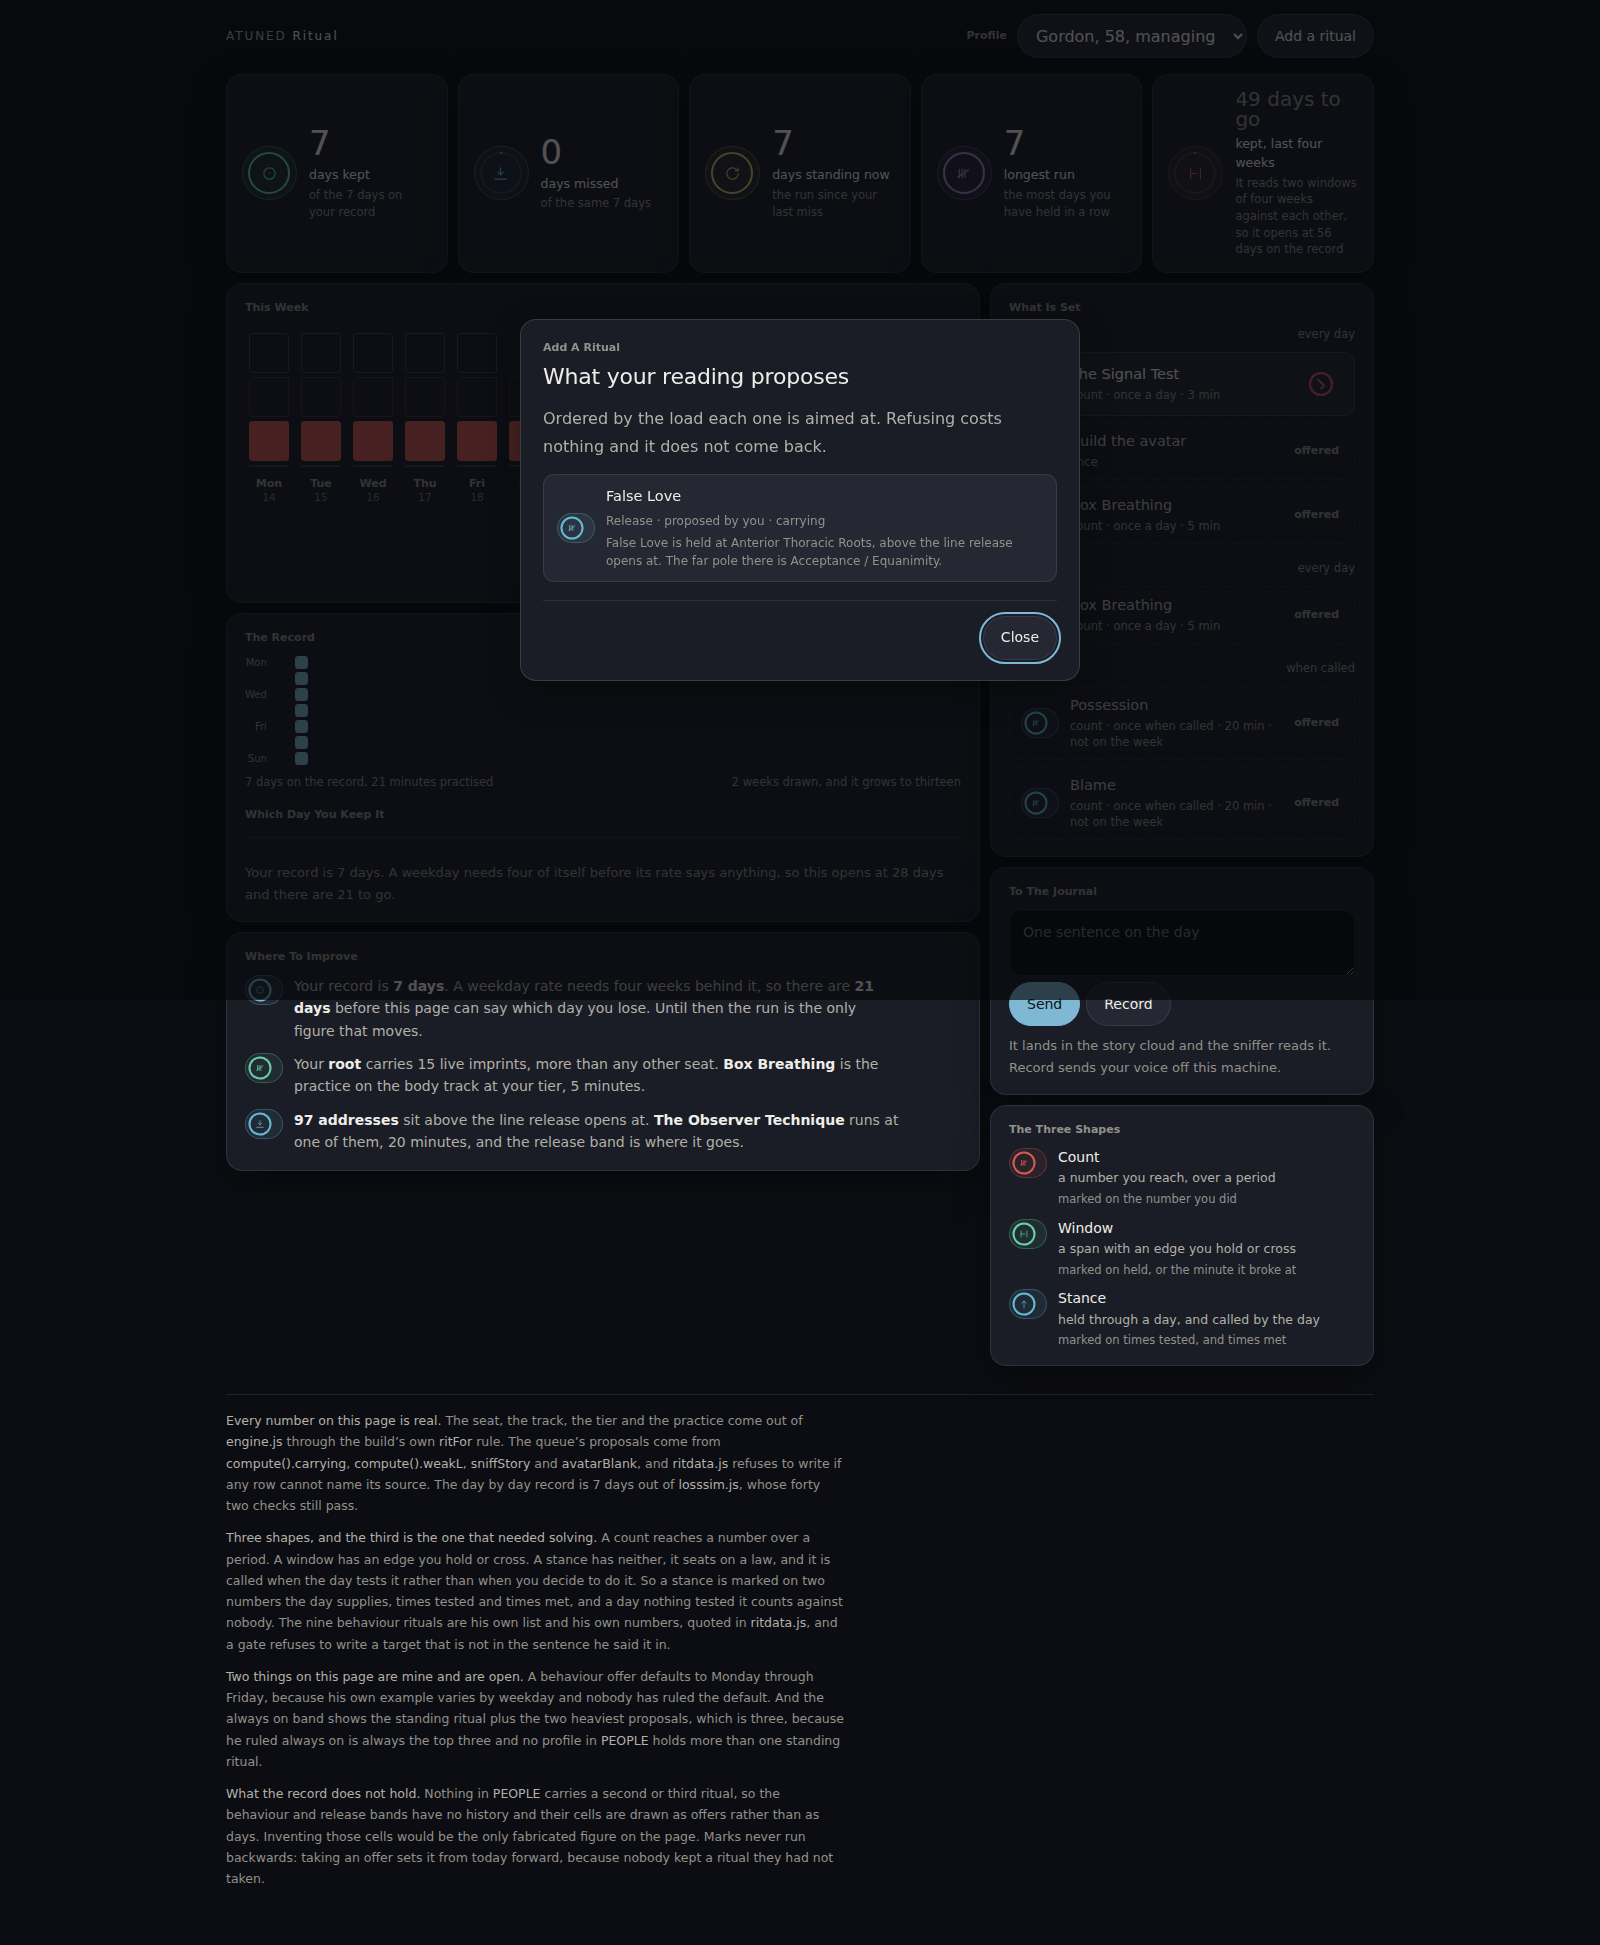
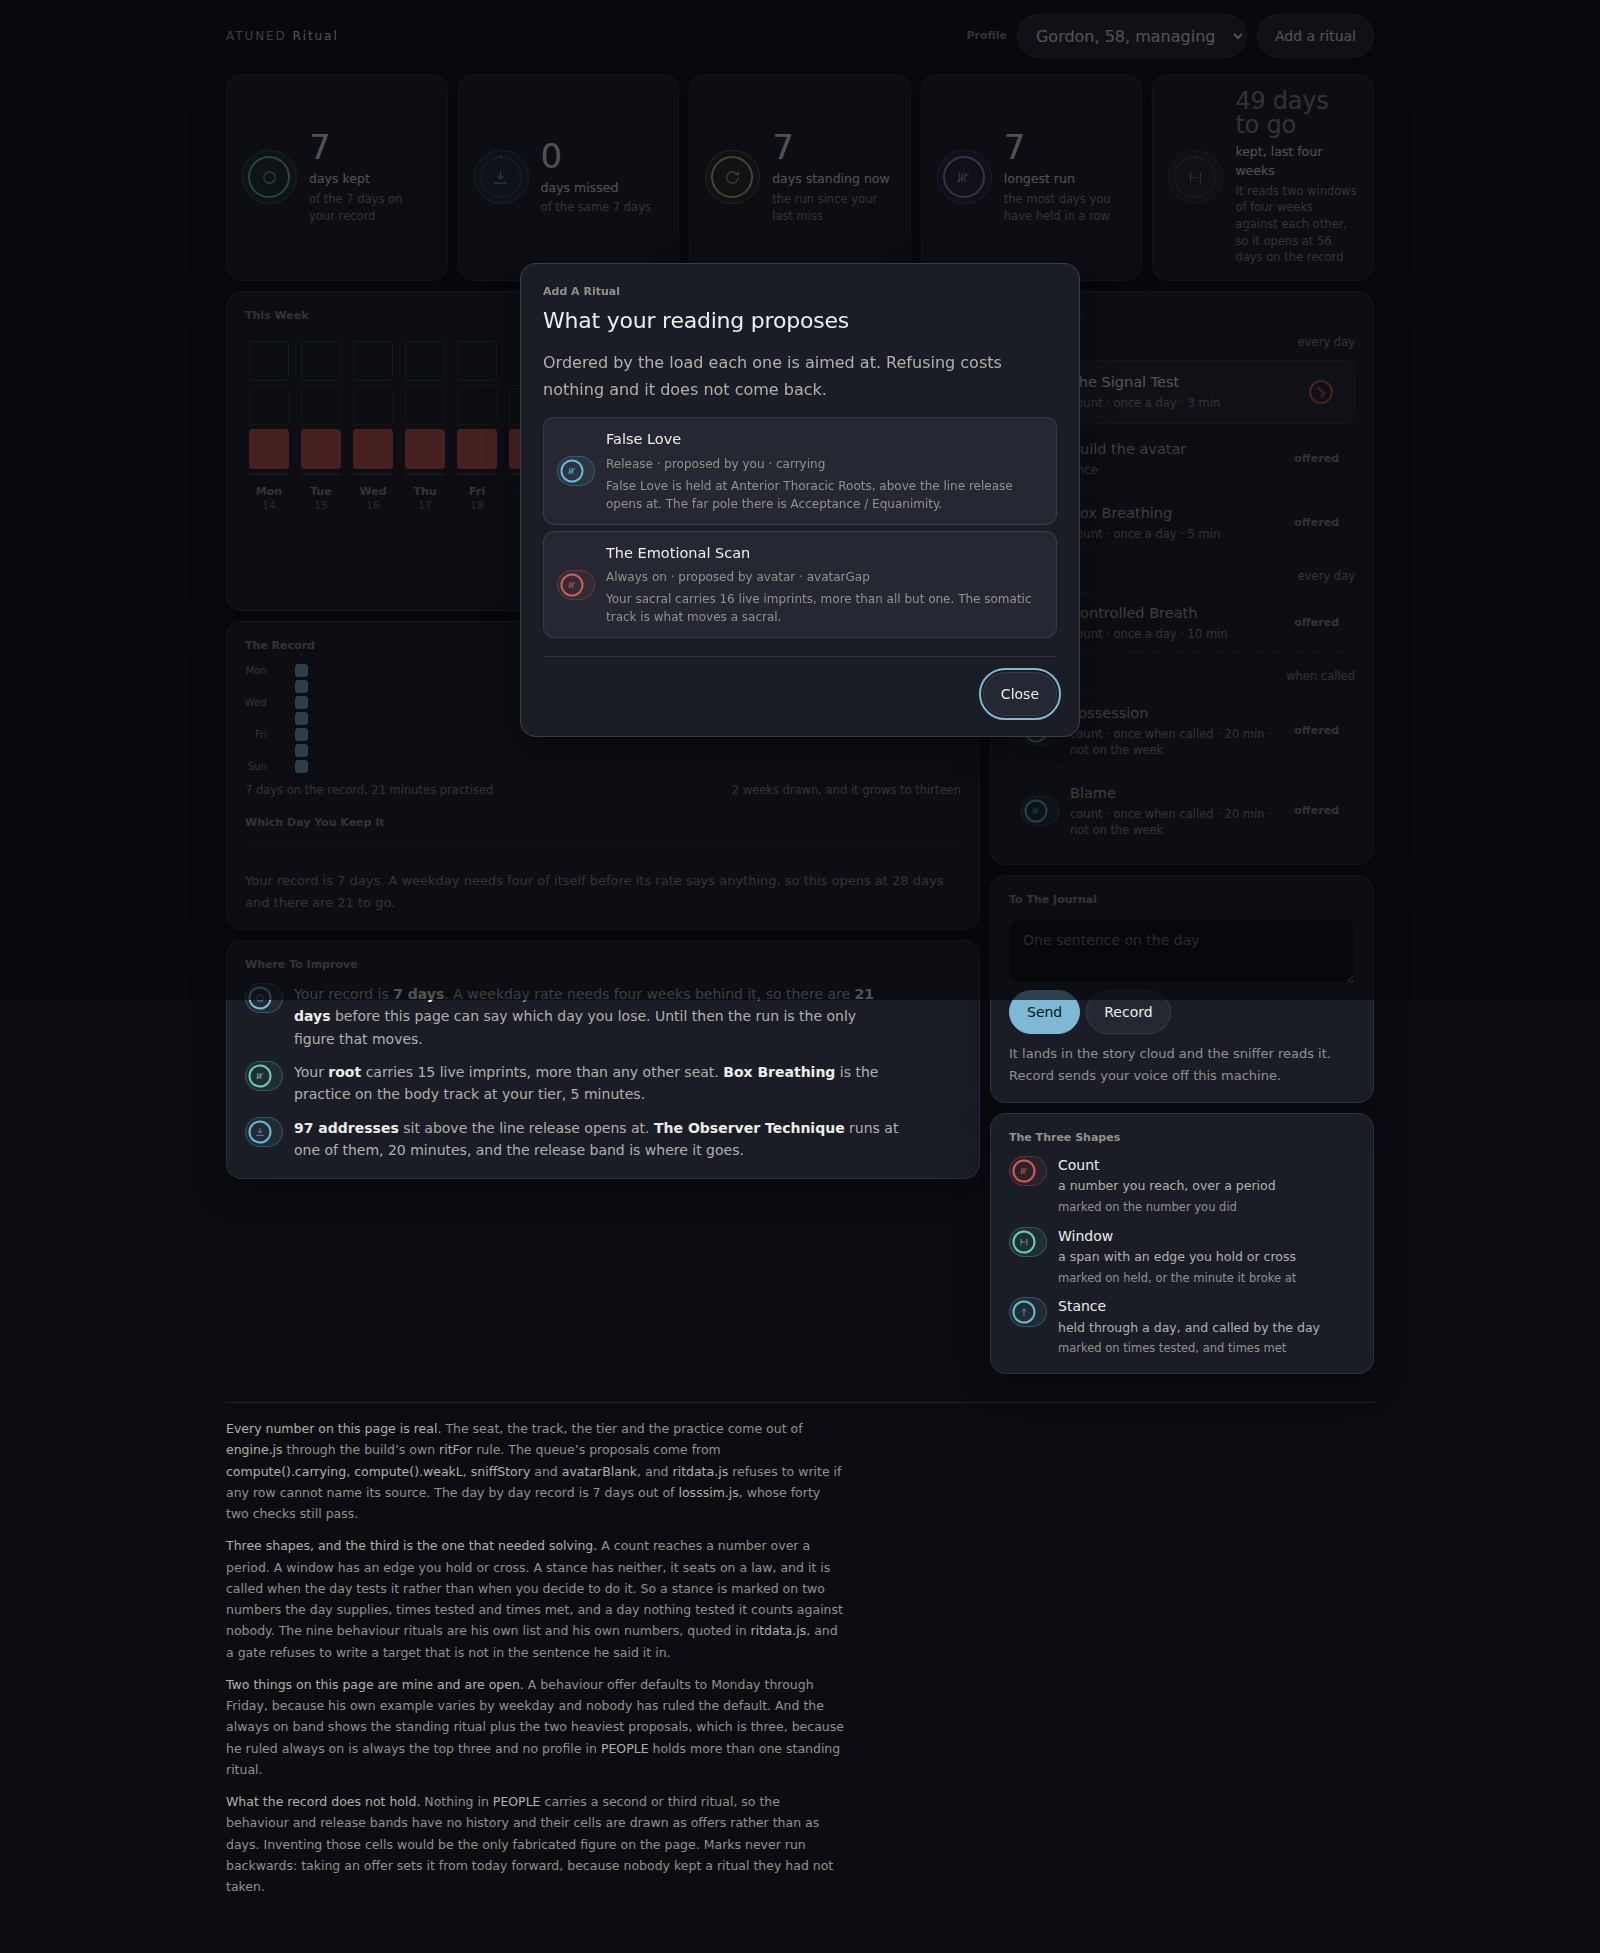
The build at f93847c, all five gates green
1168 engine, 758 functional, 100 collide, 109 design, every surface rendering.

Claude-Session: https://claude.ai/code/session_016LLF9NZj8M8zDK26vbWgWq

diff --git a/proto/ritual/ritual.html b/proto/ritual/ritual.html
@@ -186,7 +186,7 @@ textarea:focus-visible,[tabindex]:focus-visible{outline:2px solid var(--gold);
 .fig-n{font-family:var(--num);font-size:34px;font-weight:400;line-height:1;
  letter-spacing:-.02em;font-variant-numeric:tabular-nums;color:var(--ink);
  display:block}
-.fig-n.wait{font-size:20px;color:var(--dim);letter-spacing:0}
+.fig-n.wait{font-size:24px;color:var(--dim);letter-spacing:-.01em}
 .fig-k{font-size:12.5px;color:var(--ink);display:block;margin-top:6px;
  font-weight:500}
 .fig-o{font-size:11.5px;color:var(--dim);display:block;margin-top:2px;
@@ -296,7 +296,10 @@ textarea:focus-visible,[tabindex]:focus-visible{outline:2px solid var(--gold);
 .hm i.on{background:var(--c);border-color:var(--c)}
 .hm i.fl{background:transparent;border-color:var(--edge-2)}
 .hm i.no{background:transparent;border-color:transparent}
+.hm.run{grid-auto-flow:row;grid-template-rows:none;
+ grid-template-columns:repeat(auto-fill,var(--cell));gap:4px}
 .hmrow{display:flex;gap:12px;align-items:flex-start}
+.hmax[hidden]{display:none}
 .hmax{display:grid;grid-template-rows:repeat(7,var(--cell));gap:3px;
  font-size:10px;color:var(--dim);line-height:var(--cell);text-align:right;
  flex:0 0 auto}
@@ -1360,8 +1363,8 @@ window.RITDATA={
      "by": "you",
      "src": "weakL",
      "weight": 500,
-     "nm": "Box Breathing",
-     "min": 5,
+     "nm": "Controlled Breath",
+     "min": 10,
      "track": "Body",
      "seat": "Throat",
      "law": "Transparency",
@@ -1458,8 +1461,8 @@ window.RITDATA={
      "by": "avatar",
      "src": "avatarGap",
      "weight": 101.65,
-     "nm": "The Signal Test",
-     "min": 3,
+     "nm": "The Emotional Scan",
+     "min": 20,
      "track": "Somatic",
      "seat": "Sacral",
      "unit": "a day",
@@ -1951,8 +1954,8 @@ window.RITDATA={
      "by": "you",
      "src": "weakL",
      "weight": 500,
-     "nm": "The Signal Test",
-     "min": 3,
+     "nm": "Feel the Resistance",
+     "min": 10,
      "track": "Somatic",
      "seat": "Sacral",
      "law": "Temperance",
@@ -2032,8 +2035,8 @@ window.RITDATA={
      "by": "avatar",
      "src": "avatarGap",
      "weight": 58.32,
-     "nm": "The Somatic Truth Check",
-     "min": 2,
+     "nm": "The Signal Test",
+     "min": 3,
      "track": "Somatic",
      "seat": "Solar",
      "unit": "a day",
@@ -2572,8 +2575,8 @@ window.RITDATA={
      "by": "avatar",
      "src": "avatarGap",
      "weight": 12.72,
-     "nm": "Box Breathing",
-     "min": 5,
+     "nm": "Controlled Breath",
+     "min": 10,
      "track": "Body",
      "seat": "Root",
      "unit": "a day",
@@ -3067,8 +3070,8 @@ window.RITDATA={
      "by": "you",
      "src": "weakL",
      "weight": 500,
-     "nm": "The Somatic Truth Check",
-     "min": 2,
+     "nm": "The Signal Test",
+     "min": 3,
      "track": "Somatic",
      "seat": "Sacral",
      "law": "Detachment",
@@ -3102,8 +3105,8 @@ window.RITDATA={
      "by": "avatar",
      "src": "avatarGap",
      "weight": 8.13,
-     "nm": "Active Listening",
-     "min": 10,
+     "nm": "Noting Meditation",
+     "min": 15,
      "track": "Mind",
      "seat": "Throat",
      "unit": "a day",
@@ -3514,9 +3517,9 @@ window.RITDATA={
      "by": "you",
      "src": "weakL",
      "weight": 500,
-     "nm": "The Emotional Scan",
-     "min": 20,
-     "track": "Somatic",
+     "nm": "Controlled Breath",
+     "min": 10,
+     "track": "Body",
      "seat": "Sacral",
      "law": "Temperance",
      "unit": "a day",
@@ -3595,8 +3598,8 @@ window.RITDATA={
      "by": "avatar",
      "src": "avatarGap",
      "weight": 60.34,
-     "nm": "The Signal Test",
-     "min": 3,
+     "nm": "The Emotional Scan",
+     "min": 20,
      "track": "Somatic",
      "seat": "Solar",
      "unit": "a day",
@@ -3612,9 +3615,9 @@ window.RITDATA={
      "by": "avatar",
      "src": "avatarGap",
      "weight": 49.36,
-     "nm": "The Signal Test",
-     "min": 3,
-     "track": "Somatic",
+     "nm": "Box Breathing",
+     "min": 5,
+     "track": "Body",
      "seat": "Crown",
      "unit": "a day",
      "shape": "count",
@@ -4393,8 +4396,8 @@ window.RITDATA={
      "by": "you",
      "src": "weakL",
      "weight": 500,
-     "nm": "Box Breathing",
-     "min": 5,
+     "nm": "Controlled Breath",
+     "min": 10,
      "track": "Body",
      "seat": "Heart",
      "law": "Compassion",
@@ -4489,8 +4492,8 @@ window.RITDATA={
      "by": "avatar",
      "src": "avatarGap",
      "weight": 58.9,
-     "nm": "The Signal Test",
-     "min": 3,
+     "nm": "The Emotional Scan",
+     "min": 20,
      "track": "Somatic",
      "seat": "Sacral",
      "unit": "a day",
@@ -5035,7 +5038,8 @@ function cellsFor(dayIx){
 
 function drawWeek(){
  document.getElementById('keys').innerHTML=DATA.kinds.map(function(K){
-  var n=M.items.filter(function(it){return it.kind===K.k;}).length;
+  var n=M.items.filter(function(it){
+   return it.kind===K.k&&!it.once&&!it.whenCalled;}).length;
   return '<span class="key" style="--c:'+DATA.pal[K.band]+'">'
    +'<i></i><b>'+esc(K.nm)+'</b> <em>'+n+'</em></span>';}).join('');
 
@@ -5170,8 +5174,9 @@ function drawBands(){
     +'<div class="card-b"><div class="card-n">'+esc(it.nm)+'</div>'
     +'<div class="card-p">'+esc(paramLine(it))
     +(it.whenCalled?' · not on the week':'')+'</div></div>'
-    +(it.standing?markRing(it)
-      :'<span class="offertag">offered</span>')+'</div>';});
+    +(it.once?'<span class="offertag">'+(it.standing?'taken':'offered')+'</span>'
+      :(it.standing?markRing(it)
+        :'<span class="offertag">offered</span>'))+'</div>';});
   h+='</div></div>';});
  document.getElementById('bands').innerHTML=h;}
 

diff --git a/proto/ritual/ritdata.js b/proto/ritual/ritdata.js
@@ -312,6 +312,12 @@ const STANCE4LAW={}; LIB.filter(x=>x.shape==='stance').forEach(x=>{STANCE4LAW[x.
 
 function queueFor(o){
  const q=[];
+ /* everything already proposed, so no practice is offered under two kinds.
+    forSeat takes this set and takes the next one in the same ordering, which
+    is not a new rule: it is the next element of the rule already applied. */
+ const used={};
+ if(o.called)used[o.called.k]=1;
+ const take=p=>{if(p)used[p.k]=1; return p;};
 
  if(!o.avatarBuilt)
   q.push({kind:'hold', by:'avatar', src:'avatarBlank', weight:1e6,
@@ -320,7 +326,7 @@ function queueFor(o){
     +'and nothing to hold a daily ritual to.'});
 
  o.seats.slice(0,2).forEach((s,i)=>{
-  const p=forSeat(s.b,o.tier); if(!p)return;
+  const p=take(forSeat(s.b,o.tier,used)); if(!p)return;
   q.push({kind:'hold', by:'avatar', src:'avatarGap', weight:s.load,
    nm:p.nm, min:p.min, track:p.track, seat:s.b, unit:'a day',
    shape:'count', target:1, cunit:'a day', period:'a day',
@@ -329,7 +335,7 @@ function queueFor(o){
     +' track is what moves a '+s.b.toLowerCase()+'.'});});
 
  if(o.weakL){
-  const p=forSeat(o.weakL.b,o.tier,o.called?{[o.called.k]:1}:{});
+  const p=take(forSeat(o.weakL.b,o.tier,used));
   if(p)q.push({kind:'change', by:'you', src:'weakL', weight:500,
    nm:p.nm, min:p.min, track:p.track, seat:o.weakL.b, law:o.weakL.nm,
    unit:'a day', shape:'count', target:1, cunit:'a day', period:'a day',
@@ -537,6 +543,21 @@ console.error('        '+LIB.filter(x=>x.shape==='stance')
    20 September 2026 is a Sunday. A week that starts on Monday puts it in the
    last cell. Off by one here would print a person's Saturday under Sunday and
    nothing on the page would look wrong. */
+/* GATE 9. NO PRACTICE IS PROPOSED UNDER TWO KINDS.
+   It was, on Gordon: his root seat and his weakest law both land on the body
+   track at tier 1, so Box Breathing stood in the always on band and the
+   behaviour band at once. Invisible in the data and obvious in the shot. */
+console.error('GATE 9  no ritual is proposed under two kinds');
+Object.values(out.profiles).forEach(o=>{
+ const seen={};
+ if(o.called)seen[o.called.nm]='the standing ritual';
+ o.queue.forEach(q=>{
+  if(seen[q.nm])fail(o.nm+' is offered '+q.nm+' as '+q.kind+' and it is already '
+   +seen[q.nm]);
+  seen[q.nm]=q.kind;});});
+console.error('        eight profiles, '
+ +Object.values(out.profiles).reduce((a,o)=>a+o.queue.length,0)+' rows, each name once');
+
 console.error('GATE 8  the week starts on Monday and today lands on Sunday');
 if(new Date(TODAY).getUTCDay()!==0)
  fail('TODAY is not a Sunday, so the Monday first week is laid out wrong');

diff --git a/source.html b/source.html
@@ -5,7 +5,7 @@
      still covers the app and still takes pointer events. So the stamp on the
      card is gone the moment the app is usable, which is exactly when somebody
      asks which build they are looking at. The root element never goes. -->
-<html lang="en" data-build="4bf9c80 2026-09-20 19:13"><head><meta charset="utf-8">
+<html lang="en" data-build="f93847c 2026-09-20 19:16"><head><meta charset="utf-8">
 <meta name="viewport" content="width=device-width,initial-scale=1,viewport-fit=cover">
 <title>SOURCE · your field</title>
 <meta name="description" content="A field instrument. 112 addresses, nine poled axes, twenty-one laws.">
@@ -3911,7 +3911,7 @@ body.punch .ac-gf{border-top-color:transparent;background:var(--panel)}
        download as atuned(1).html and leaves the first one where it was, so
        opening "the file" can mean opening last week's.
        Stamped by BUILD.sh, so it cannot be wrong or go stale. -->
-  <span class="bs-v" id="bstamp">4bf9c80 2026-09-20 19:13</span></div>
+  <span class="bs-v" id="bstamp">f93847c 2026-09-20 19:16</span></div>
  <!-- THE WAY OUT WAS BUILT AND NEVER SHOWN.
 
       pointerdown and keydown both clear this sheet and have since it was

diff --git a/proto/ritual/_rit.css b/proto/ritual/_rit.css
@@ -185,7 +185,7 @@ textarea:focus-visible,[tabindex]:focus-visible{outline:2px solid var(--gold);
 .fig-n{font-family:var(--num);font-size:34px;font-weight:400;line-height:1;
  letter-spacing:-.02em;font-variant-numeric:tabular-nums;color:var(--ink);
  display:block}
-.fig-n.wait{font-size:20px;color:var(--dim);letter-spacing:0}
+.fig-n.wait{font-size:24px;color:var(--dim);letter-spacing:-.01em}
 .fig-k{font-size:12.5px;color:var(--ink);display:block;margin-top:6px;
  font-weight:500}
 .fig-o{font-size:11.5px;color:var(--dim);display:block;margin-top:2px;
@@ -295,7 +295,10 @@ textarea:focus-visible,[tabindex]:focus-visible{outline:2px solid var(--gold);
 .hm i.on{background:var(--c);border-color:var(--c)}
 .hm i.fl{background:transparent;border-color:var(--edge-2)}
 .hm i.no{background:transparent;border-color:transparent}
+.hm.run{grid-auto-flow:row;grid-template-rows:none;
+ grid-template-columns:repeat(auto-fill,var(--cell));gap:4px}
 .hmrow{display:flex;gap:12px;align-items:flex-start}
+.hmax[hidden]{display:none}
 .hmax{display:grid;grid-template-rows:repeat(7,var(--cell));gap:3px;
  font-size:10px;color:var(--dim);line-height:var(--cell);text-align:right;
  flex:0 0 auto}

diff --git a/proto/ritual/_RIT.html b/proto/ritual/_RIT.html
@@ -313,7 +313,8 @@ function cellsFor(dayIx){
 
 function drawWeek(){
  document.getElementById('keys').innerHTML=DATA.kinds.map(function(K){
-  var n=M.items.filter(function(it){return it.kind===K.k;}).length;
+  var n=M.items.filter(function(it){
+   return it.kind===K.k&&!it.once&&!it.whenCalled;}).length;
   return '<span class="key" style="--c:'+DATA.pal[K.band]+'">'
    +'<i></i><b>'+esc(K.nm)+'</b> <em>'+n+'</em></span>';}).join('');
 
@@ -448,8 +449,9 @@ function drawBands(){
     +'<div class="card-b"><div class="card-n">'+esc(it.nm)+'</div>'
     +'<div class="card-p">'+esc(paramLine(it))
     +(it.whenCalled?' · not on the week':'')+'</div></div>'
-    +(it.standing?markRing(it)
-      :'<span class="offertag">offered</span>')+'</div>';});
+    +(it.once?'<span class="offertag">'+(it.standing?'taken':'offered')+'</span>'
+      :(it.standing?markRing(it)
+        :'<span class="offertag">offered</span>'))+'</div>';});
   h+='</div></div>';});
  document.getElementById('bands').innerHTML=h;}
 
